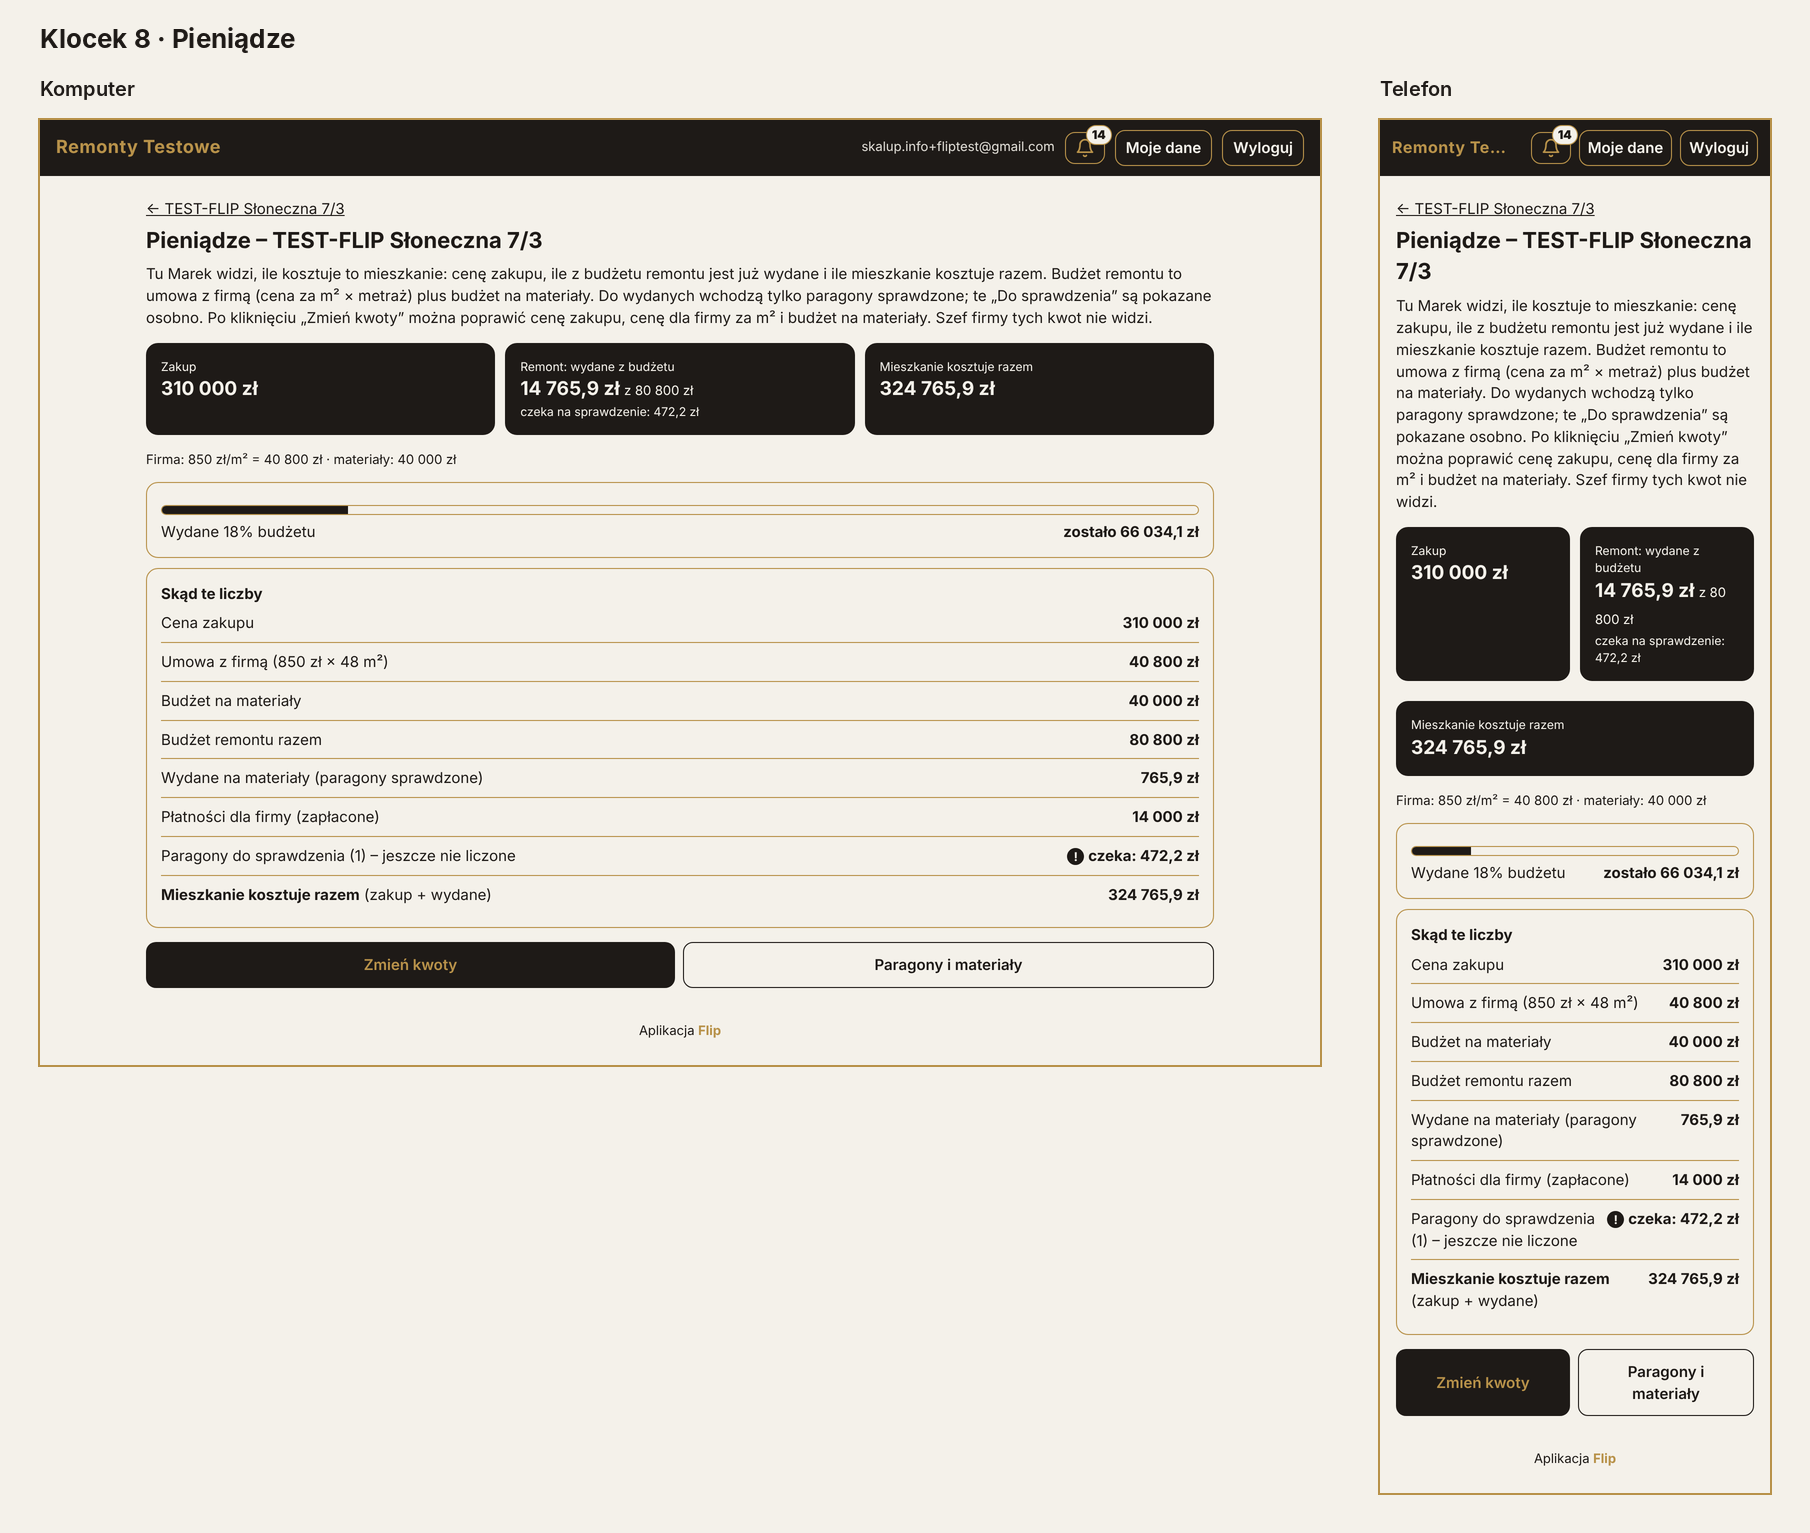
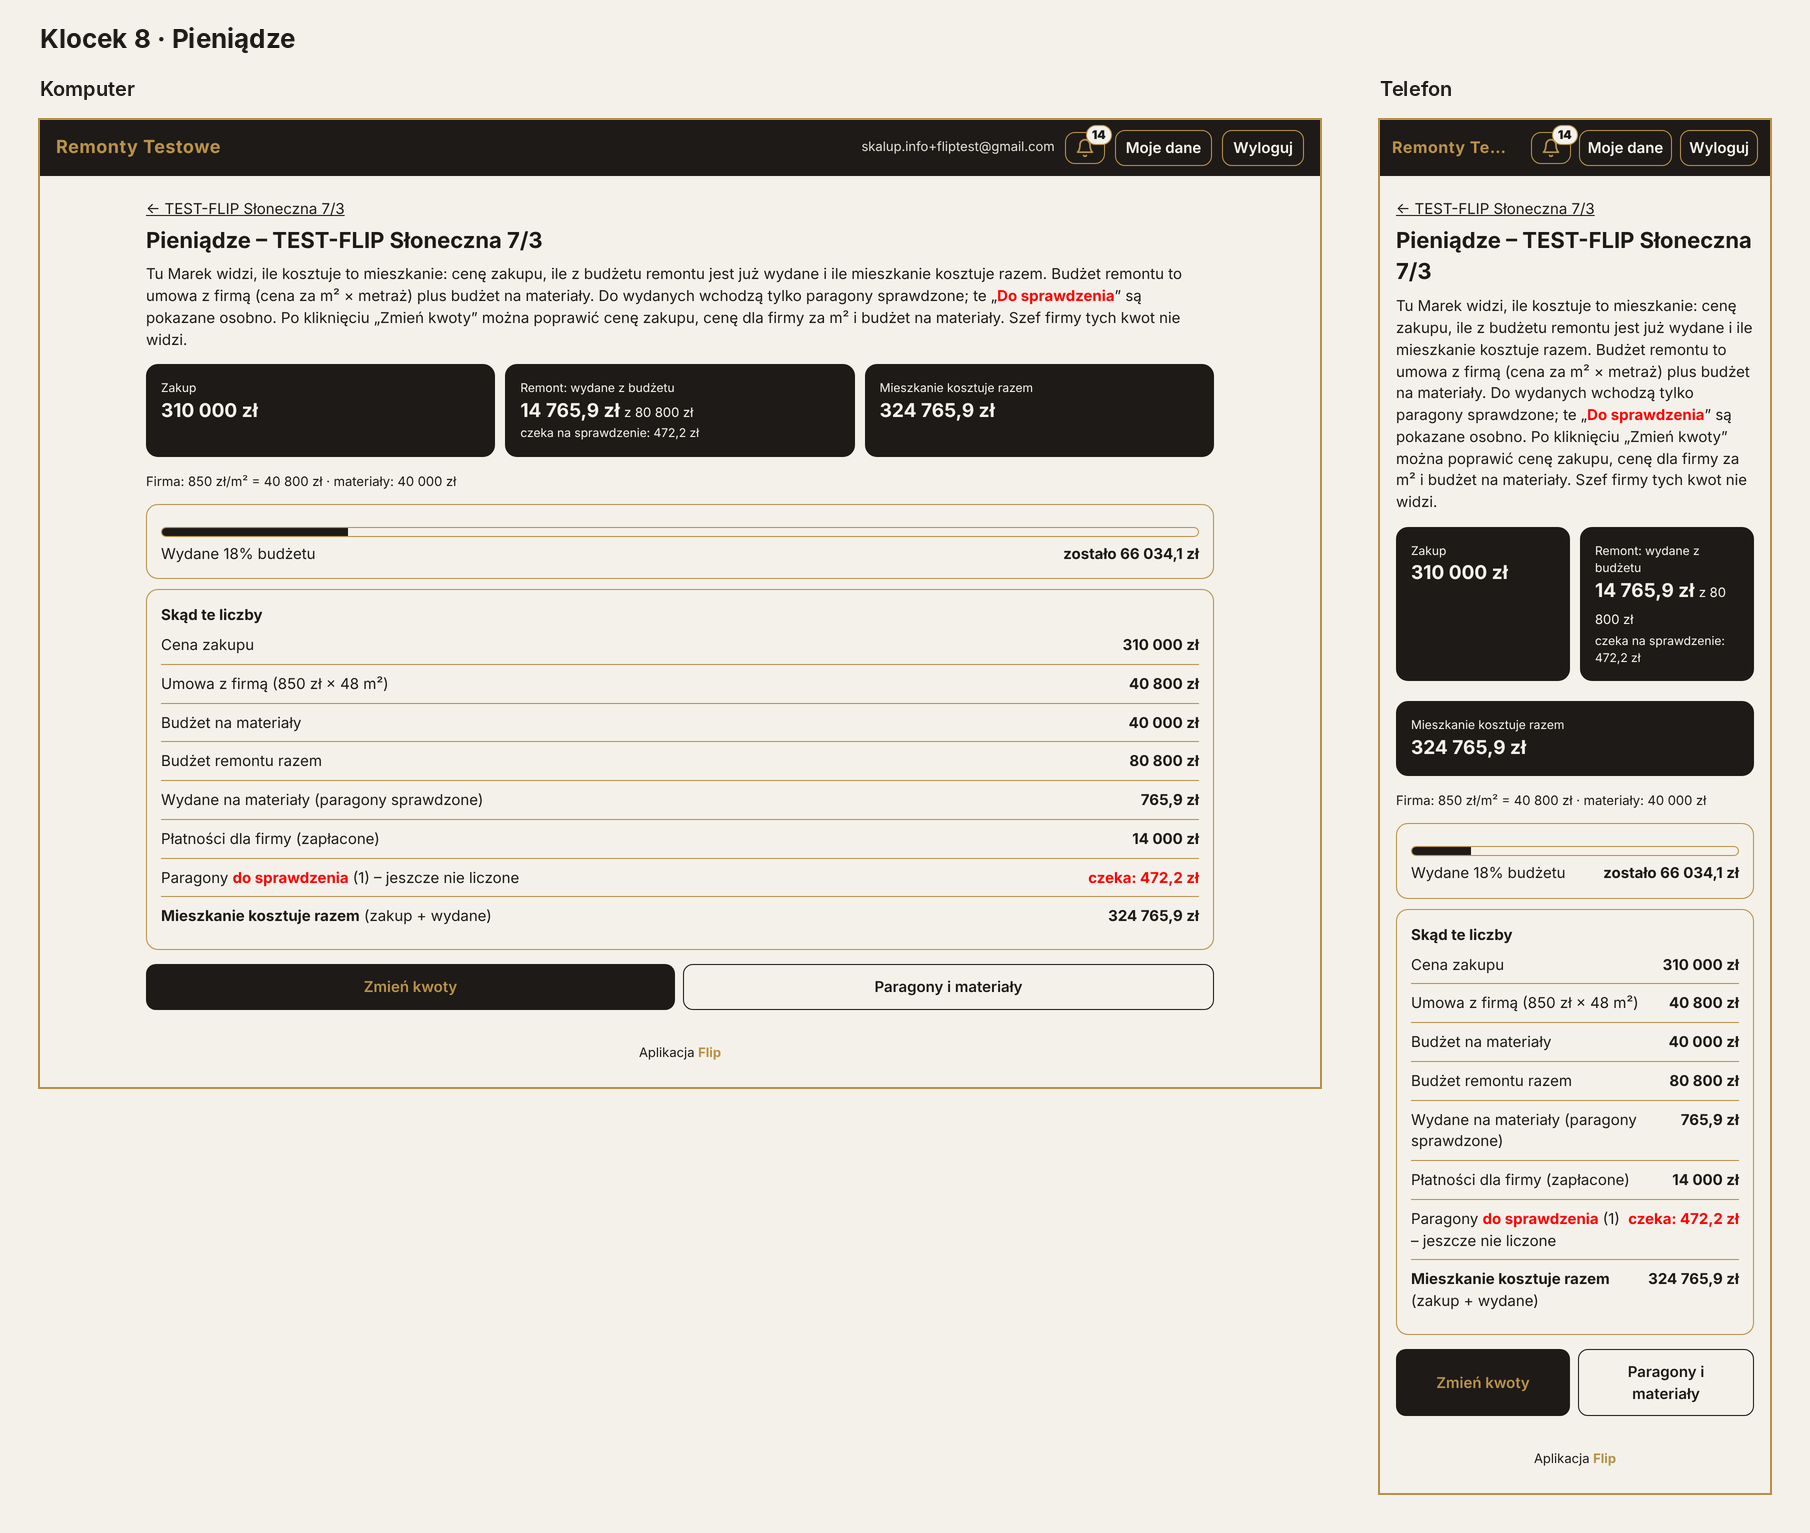
„Do sprawdzenia” znowu na czerwono, na każdym ekranie (rdzeń pilnuje każdego napisu); nowe obrazy klocek07_1 i klocek08
Claude-Session: https://claude.ai/code/session_012q85fXmcQDp1yqtsZxENQW

diff --git a/prawdziwa/kod/test/test_paragony_ekrany.js b/prawdziwa/kod/test/test_paragony_ekrany.js
@@ -90,7 +90,7 @@ for(const [name,vp] of [['pc',{width:1280,height:900}],['tel',{width:390,height:
  // Odznacz i ponowne sprawdzenie
  const leroy=p.locator('[data-dok]',{hasText:'Leroy Merlin'});await leroy.locator('[data-odznacz]').click();await expect(p.locator('.msg')).toContainText('Odznaczono: Leroy Merlin 228,18 zł jest znowu „Do sprawdzenia” i nie liczy się do wydanych.');
  await expect(p.locator('#kpiDoSpr')).toHaveText('1');await expect(p.locator('#budzetMat')).toContainText('wydane 1080,4 zł');await expect(p.locator('#budzetMat')).toContainText('Czeka na sprawdzenie: 228,18 zł');
- await expect(leroy.locator('.late')).toHaveText('Do sprawdzenia');{const k=await leroy.locator('.late').evaluate(e=>[getComputedStyle(e).color,getComputedStyle(e).fontWeight,getComputedStyle(e,'::before').content]);spr(k[0]==='rgb(30, 26, 23)'&&+k[1]>=700&&/!/.test(k[2]),name+' „Do sprawdzenia”: pogrubiona czerń z „!” ('+k.join(' / ')+')')}spr(true,name+' „Odznacz”: Do sprawdzenia, wydane bez tej kwoty, „czeka” osobno');
+ await expect(leroy.locator('.ostrz')).toHaveText('Do sprawdzenia');{const k=await p.evaluate(()=>{const z=[...document.querySelectorAll('#app *')].filter(e=>!e.matches('.dospr')&&[...e.childNodes].some(n=>n.nodeType===3&&/do sprawdzenia/i.test(n.nodeValue)));const all=[...document.querySelectorAll('.dospr')];return [z.length,all.length,all.every(e=>getComputedStyle(e).color==='rgb(255, 0, 0)'&&+getComputedStyle(e).fontWeight>=700)]});spr(k[0]===0&&k[1]>0&&k[2],name+' każdy napis „Do sprawdzenia” na ekranie czerwony #FF0000, pogrubiony ('+k.join(' / ')+')')}spr(true,name+' „Odznacz”: Do sprawdzenia, wydane bez tej kwoty, „czeka” osobno');
  await p.click('#wroc');await expect(p.locator('#m-paragony')).toHaveText('Paragony i materiały – 1 do sprawdzenia');await expect(p.locator('#m-pieniadze')).toHaveText('Pieniądze – razem 231 080,4 zł');spr(true,name+' przyciski mieszkania: „1 do sprawdzenia”, „Pieniądze – razem”');
  await p.click('#m-pieniadze');spr(await txt(p,'.kpi:has(#kpiWydane)')==='Remont: wydane z budżetu 1080,4 zł z 100 000 zł czeka na sprawdzenie: 228,18 zł'&&await txt(p,'#kpiRazem')==='231 080,4 zł',name+' Pieniądze: wydane tylko sprawdzone, „czeka” osobno, razem = zakup + wydane');
  await p.click('#doParagonow');await p.locator('[data-dok]',{hasText:'Leroy Merlin'}).locator('[data-ok]').click();await expect(p.locator('.msg')).toContainText('Sprawdzone: Leroy Merlin 228,18 zł. Kwota weszła do wydanych na materiały.');
@@ -129,7 +129,7 @@ for(const [name,vp] of [['pc',{width:1280,height:900}],['tel',{width:390,height:
  // ---- znowu właściciel: dokument firmy do sprawdzenia
  await p.click('#wyloguj');await expect(p.locator('h1')).toHaveText('Logowanie');await p.fill('#email','pati@test.pl');await p.fill('#haslo','Dobrehaslo1');await p.click('#wyslij');await expect(p.locator('h1')).toHaveText('Moje mieszkania');
  await p.click('.flat:has-text("Testowa 7")');await expect(p.locator('#m-paragony')).toHaveText('Paragony i materiały – 1 do sprawdzenia');await p.click('#m-paragony');
- const fd=p.locator('[data-dok]',{hasText:/SKLEP TESTOWY/});await expect(fd.locator('.late')).toContainText('Do sprawdzenia: Sklep');await expect(fd).toContainText('zapłacił: Ekipa Testowa');
+ const fd=p.locator('[data-dok]',{hasText:/SKLEP TESTOWY/});await expect(fd.locator('.ostrz')).toContainText('Do sprawdzenia: Sklep');await expect(fd).toContainText('zapłacił: Ekipa Testowa');
  await fd.locator('[data-zobacz]').click();await expect(p.locator('.row:has-text("Dodał")')).toContainText('Ekipa Testowa');await p.click('#okDok');await expect(p.locator('.row:has-text("Stan")')).toContainText('✓ Sprawdzone przez Pati');
  spr(true,name+' właściciel: dokument firmy „Do sprawdzenia: Sklep”, dodał Ekipa Testowa, „Sprawdzone, zgadza się”');
  spr(!errs.length,name+' brak błędów na stronie '+errs.join(';'));

diff --git a/prawdziwa/js/k07_paragony.js b/prawdziwa/js/k07_paragony.js
@@ -70,7 +70,7 @@
     const karta = r => `<div class="card" data-dok="${r.id}"><div class="zw"><b>${esc(r.sklep)}</b><b>${kwotaPL(r.kwota)}</b></div>
       ${r.co ? `<div>${esc(r.co)}</div>` : ''}<small>${dt(r.data)} · zapłacił: ${esc(zaplacil(r, f))}</small>
       ${r.sprawdzone ? `<div class="info2"><b>✓ Sprawdzone, zgadza się</b></div>`
-        : `<div class="late info2">Do sprawdzenia${r.pola_niepewne && r.pola_niepewne.length ? ': ' + esc(listaPol(r.pola_niepewne)) : ''}${F() ? ' – czeka na Właściciela aplikacji' : ''}</div>`}
+        : `<div class="ostrz info2">Do sprawdzenia${r.pola_niepewne && r.pola_niepewne.length ? ': ' + esc(listaPol(r.pola_niepewne)) : ''}${F() ? ' – czeka na Właściciela aplikacji' : ''}</div>`}
       <div class="acts">${F() ? '' : r.sprawdzone ? `<button class="btn2" data-odznacz="${r.id}">Odznacz</button>` : `<button class="btn" data-ok="${r.id}">Sprawdzone, zgadza się</button>`}
         <button class="btn2" data-zobacz="${r.id}">Zobacz zdjęcie i dane</button></div></div>`;
     const bud = f.budzet_materialow == null ? null : Number(f.budzet_materialow);
@@ -436,7 +436,7 @@
         <div class="row"><span>Kto zapłacił</span><span>${esc(zaplacil(r, f))}</span></div>
         <div class="row"><span>Dodał</span><span>${esc(nazwy[r.dodal] || 'Właściciel aplikacji')} · ${dataPL(r.utworzono)}</span></div>
         <div class="row"><span>Odczyt</span><span>${r.zrodlo_odczytu === 'reczny' ? 'dane przepisane ręcznie' : (r.zrodlo_odczytu === 'ai' ? 'odczyt AI' : 'odczyt ze zdjęcia w telefonie') + (r.pewnosc != null ? ` · pewność ${r.pewnosc}%` : '')}</span></div>
-        <div class="row"><span>Stan</span>${r.sprawdzone ? `<b>✓ Sprawdzone przez ${esc(nazwy[r.sprawdzil] || 'Właściciel aplikacji')} · ${dataPL(r.sprawdzono)}</b>` : `<b class="late">Do sprawdzenia${r.pola_niepewne && r.pola_niepewne.length ? ': ' + esc(listaPol(r.pola_niepewne)) : ''}</b>`}</div>
+        <div class="row"><span>Stan</span>${r.sprawdzone ? `<b>✓ Sprawdzone przez ${esc(nazwy[r.sprawdzil] || 'Właściciel aplikacji')} · ${dataPL(r.sprawdzono)}</b>` : `<b class="ostrz">Do sprawdzenia${r.pola_niepewne && r.pola_niepewne.length ? ': ' + esc(listaPol(r.pola_niepewne)) : ''}</b>`}</div>
       </div>
       ${poz.length ? `<div class="card"><b>Pozycje (${poz.length})</b>${poz.map(x => `<div class="poz"><span>${x.zgodna === false ? '<span class="ostrz">! </span>' : ''}${esc(x.nazwa)}</span><span>${String(x.ilosc).replace('.', ',')} × ${zl(x.cena)} = ${zl(x.wartosc)}${x.ptu ? ' ' + esc(x.ptu) : ''}</span></div>`).join('')}</div>` : ''}
       ${r.tekst_surowy ? `<div class="card"><details><summary>Tekst odczytany ze zdjęcia</summary><div class="surowy">${esc(r.tekst_surowy)}</div></details></div>` : ''}

diff --git a/prawdziwa/index.html b/prawdziwa/index.html
@@ -33,6 +33,7 @@ h1{font-size:22px;margin:0 0 6px}h2{font-size:18px;margin:16px 0 8px}
 .flat b{font-size:17px}
 .flat .meta{display:flex;flex-wrap:wrap;gap:4px 16px;font-size:14px;margin-top:4px}
 .late{font-weight:700}
+.dospr{color:#FF0000;font-weight:700}
 .late::before{content:"! ";display:inline-block;background:var(--c);color:var(--k);border-radius:50%;width:17px;height:17px;text-align:center;line-height:17px;font-size:12px;margin-right:4px}
 .row{display:flex;justify-content:space-between;gap:8px;padding:8px 0;border-bottom:1px solid var(--z)}
 .row:last-child{border-bottom:none}
@@ -1028,6 +1029,26 @@ function ekranUsunZablokowane(f, n){
 <script src="js/k14_ilosci.js"></script>
 <script src="js/k15_szukaj.js"></script>
 <!-- KLOCKI_KONIEC -->
+<script>
+// Zasada Pati: każdy napis lub status „Do sprawdzenia” ZAWSZE na czerwono #FF0000 (na każdym ekranie, w przyciskach, licznikach, komunikatach i w dzwonku)
+(function(){
+  const WZ = /do sprawdzenia/i, POMIN = /^(SCRIPT|STYLE|TEXTAREA|OPTION|TITLE|INPUT)$/;
+  function oznacz(korzen){
+    const w = document.createTreeWalker(korzen, NodeFilter.SHOW_TEXT, { acceptNode: t => {
+      const r = t.parentNode; if (!r || POMIN.test(r.nodeName) || r.closest('.dospr,[contenteditable]')) return NodeFilter.FILTER_REJECT;
+      return WZ.test(t.nodeValue) ? NodeFilter.FILTER_ACCEPT : NodeFilter.FILTER_SKIP; } });
+    const lista = []; while (w.nextNode()) lista.push(w.currentNode);
+    lista.forEach(t => {
+      const f = document.createDocumentFragment(); let reszta = t.nodeValue, m;
+      while ((m = reszta.match(WZ))){ if (m.index) f.appendChild(document.createTextNode(reszta.slice(0, m.index)));
+        const s = document.createElement('span'); s.className = 'dospr'; s.textContent = m[0]; f.appendChild(s); reszta = reszta.slice(m.index + m[0].length); }
+      if (reszta) f.appendChild(document.createTextNode(reszta)); t.parentNode.replaceChild(f, t); });
+  }
+  new MutationObserver(zm => zm.forEach(z => z.addedNodes.forEach(n => { if (n.nodeType === 1) oznacz(n); else if (n.nodeType === 3 && n.parentNode) oznacz(n.parentNode); })))
+    .observe(document.body, { childList:true, subtree:true });
+  oznacz(document.body);
+})();
+</script>
 <script>start();</script>
 </body>
 </html>

diff --git a/prawdziwa/js/k08_pieniadze.js b/prawdziwa/js/k08_pieniadze.js
@@ -61,7 +61,7 @@
         <div class="row"><span>Budżet remontu razem</span><b>${zl(bud)}${staryBudzet ? ' <small>(z danych mieszkania)</small>' : ''}</b></div>
         <div class="row"><span>Wydane na materiały (paragony sprawdzone)</span><b>${zl(P.mat)}</b></div>
         ${P.inne.map(x => `<div class="row"><span>${esc(x.n)}</span><b>${zl(x.kwota)}</b></div>`).join('')}
-        ${P.doSpr ? `<div class="row"><span>Paragony do sprawdzenia (${P.doSpr}) – jeszcze nie liczone</span><b class="late">czeka: ${zl(P.czeka)}</b></div>` : ''}
+        ${P.doSpr ? `<div class="row"><span>Paragony do sprawdzenia (${P.doSpr}) – jeszcze nie liczone</span><b class="ostrz">czeka: ${zl(P.czeka)}</b></div>` : ''}
         ${window.WYDATKI_MIESZKANIA.length ? '' : '<div class="row"><span>Płatności dla firmy</span><span>dojdą razem z zakładką Płatności</span></div>'}
         <div class="row"><span><b>Mieszkanie kosztuje razem</b> (zakup + wydane)</span><b>${zl(razem)}</b></div></div>
       ${num(f.metraz) == null ? '<p class="info2 ostrz">Metraż nie jest wpisany, więc umowy z firmą nie da się policzyć. Metraż wpisuje się w „Zmień dane” mieszkania.</p>' : ''}
